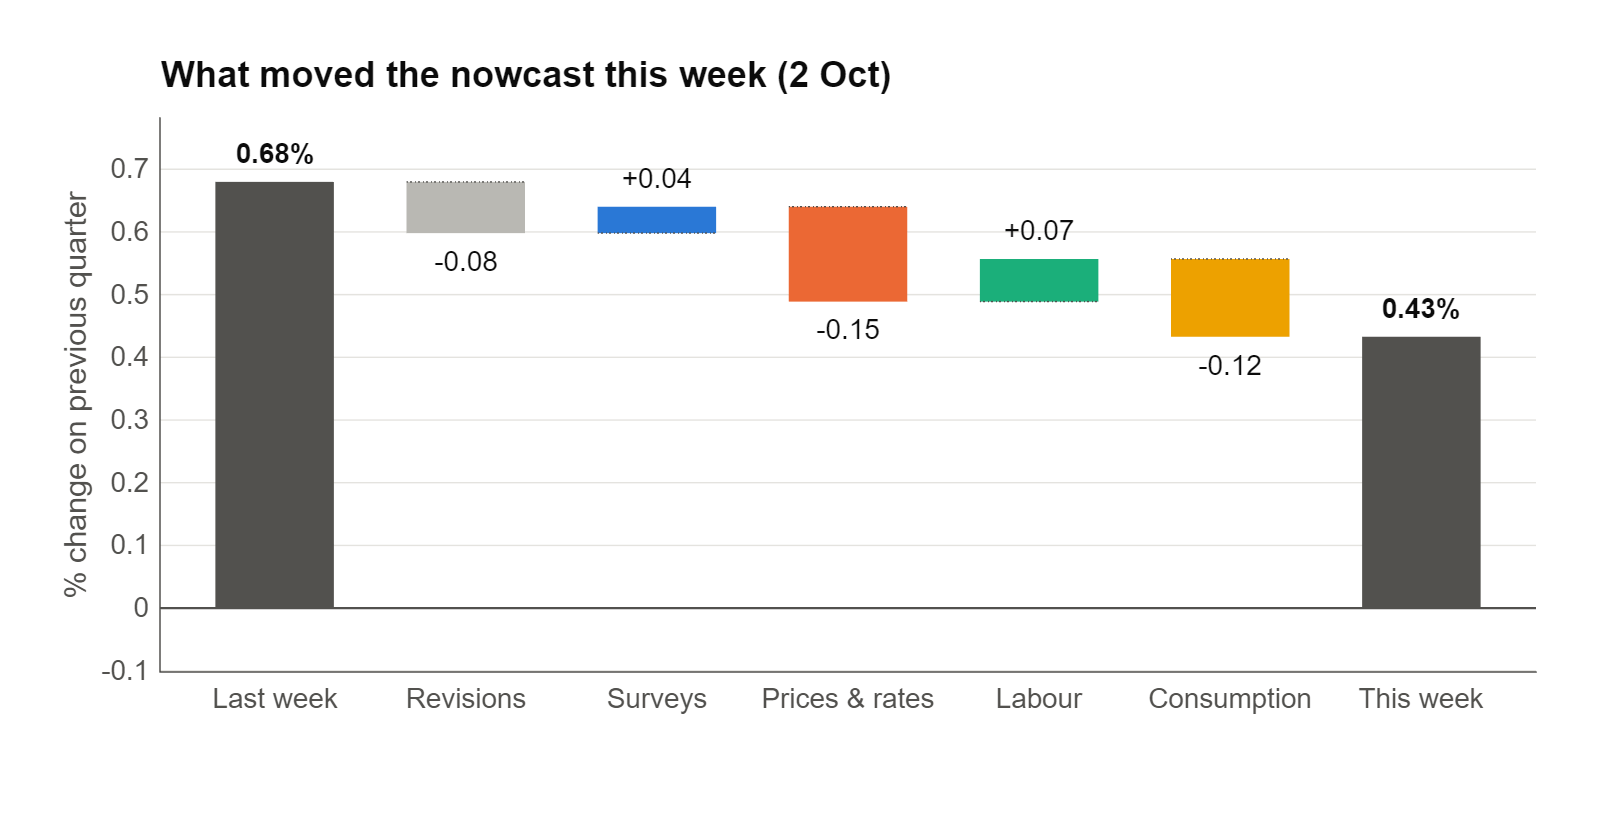
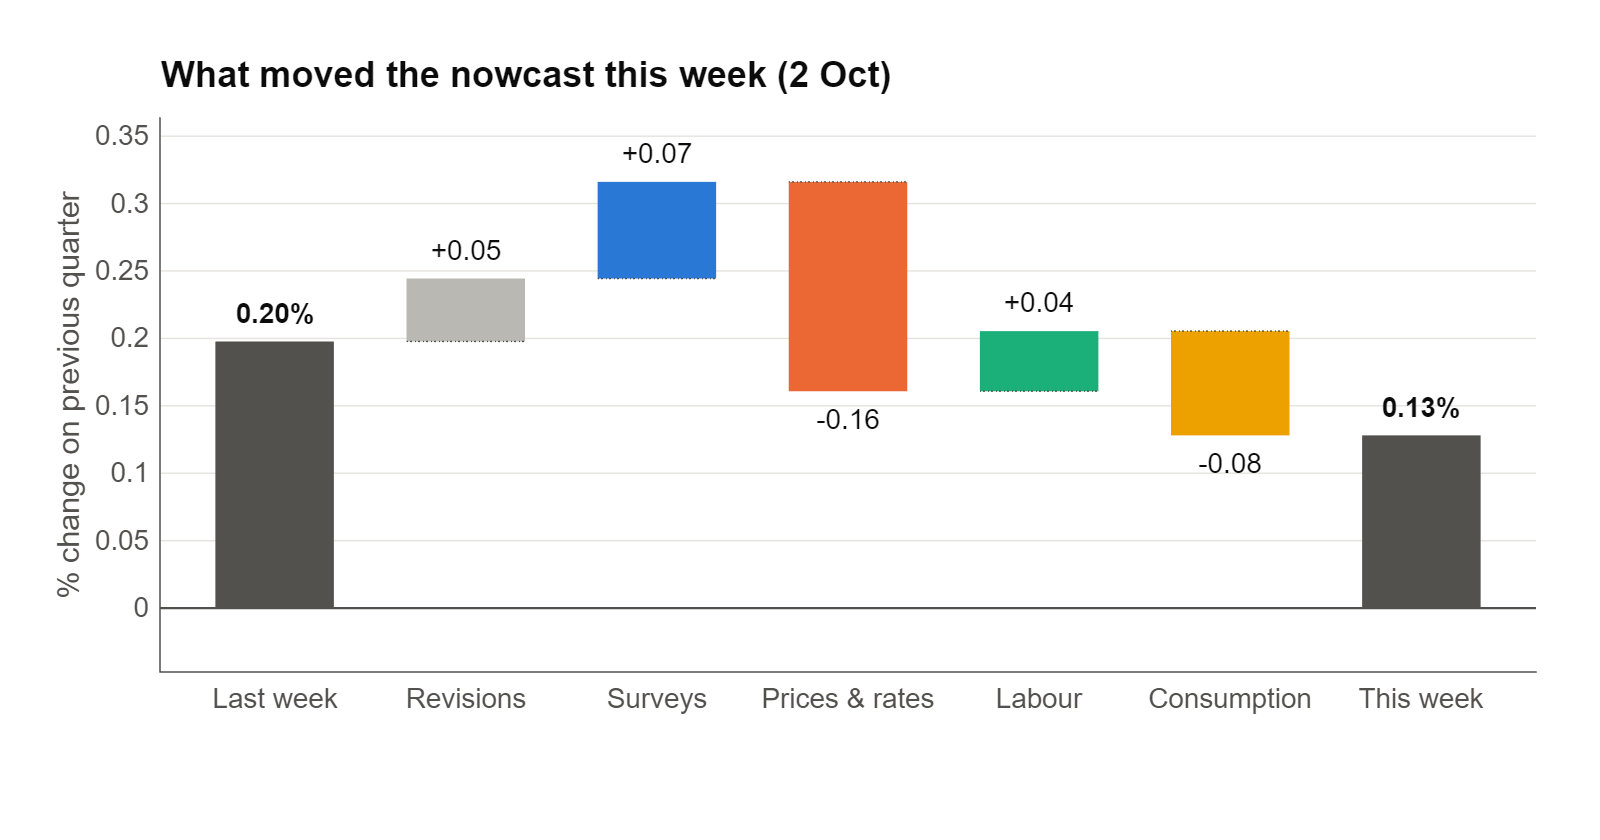
Update GDP nowcast

diff --git a/_pages/nowcast.md b/_pages/nowcast.md
@@ -21,6 +21,10 @@ The estimate is down 0.07 percentage points from last week.
 
 Each point is the estimate made on that Friday with the data available at the time. The shaded bands show the uncertainty: the darker band contains the outcome with 50% probability, the lighter band with 80%. The bands narrow as more monthly data for the quarter are published.
 
+![What moved the Q3 2026 nowcast each week](web_news_quarter.png)
+
+Each bar shows how much the data published that week moved the nowcast, split by type of data. Grey bars are revisions to figures published earlier.
+
 ## What changed this week
 
 The data published this week moved the estimate by -0.07 percentage points (prices & rates -0.16, consumption -0.08, surveys +0.07).
@@ -152,4 +156,4 @@ Grey bars are official ISTAT figures (latest available vintage); the blue bar is
 
 ---
 
-<small>Page generated automatically on 02 Oct 2026 22:29.</small>
+<small>Page generated automatically on 02 Oct 2026 23:33.</small>
